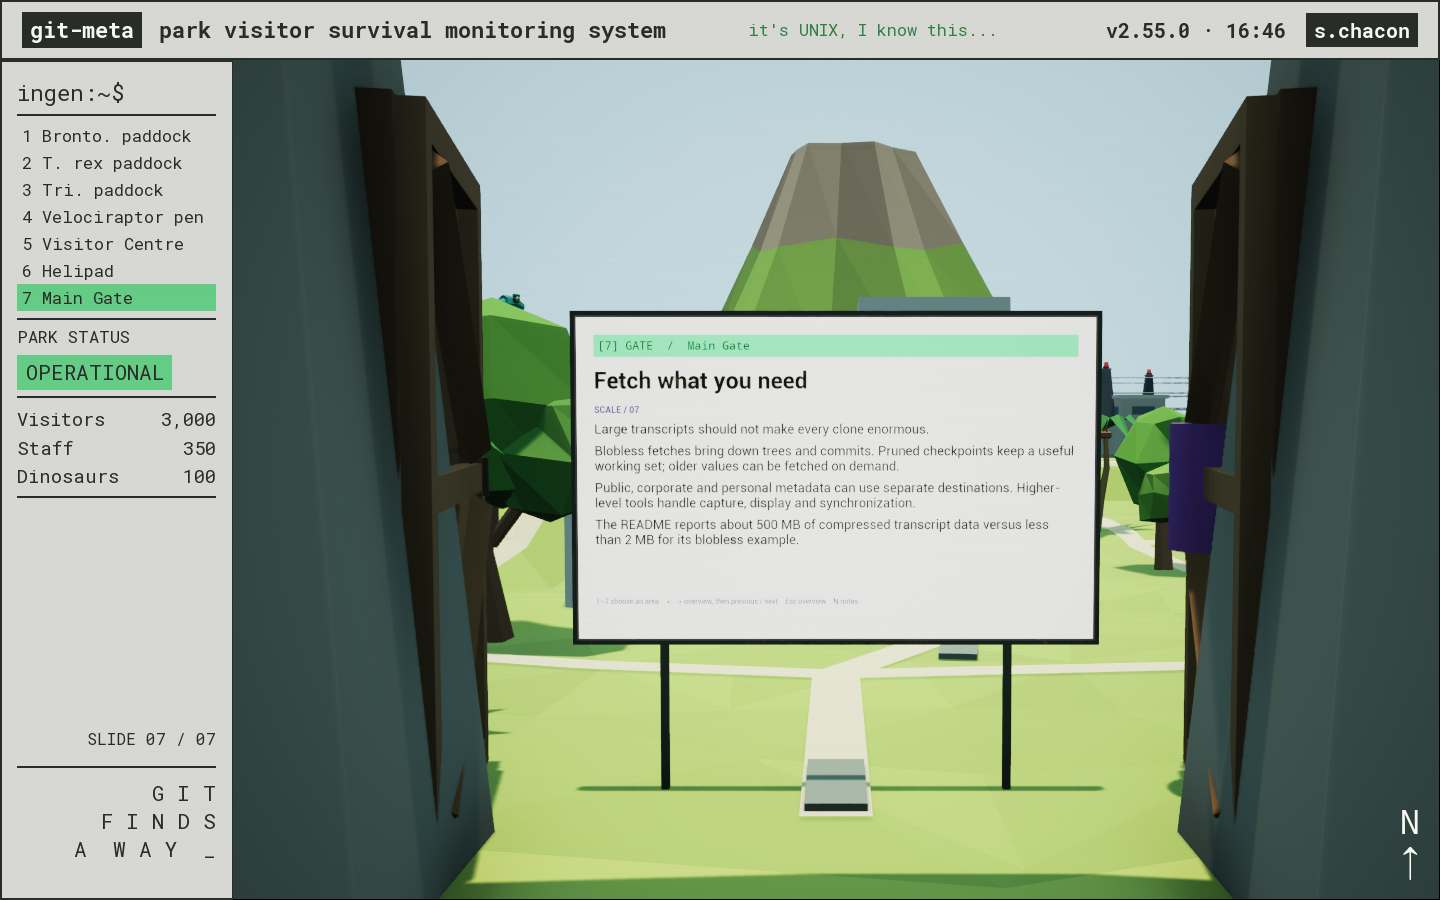
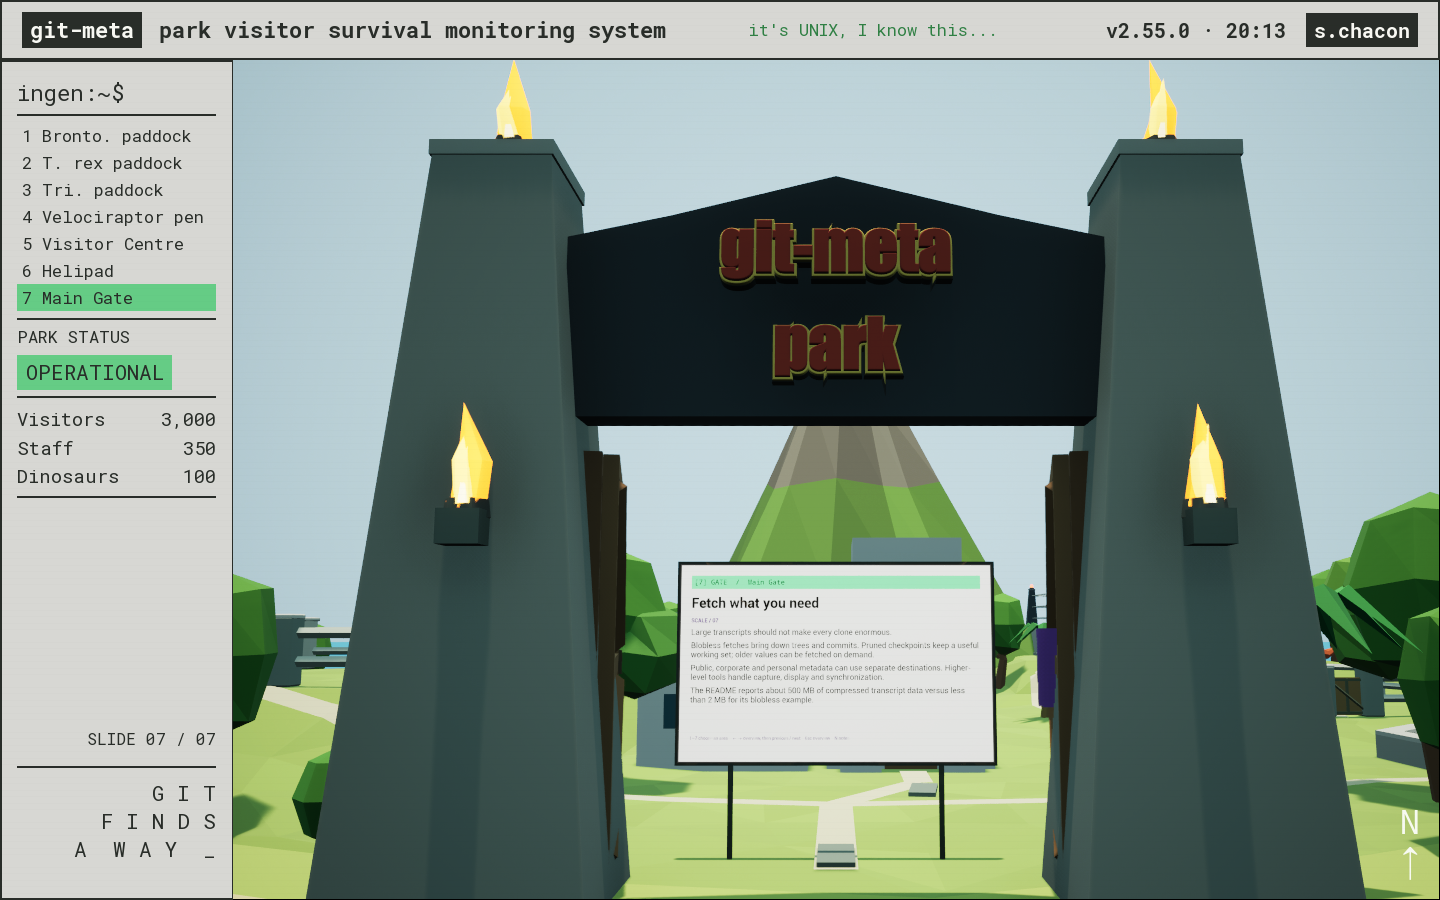
Pull back the gate camera to include the park lettering

diff --git a/unreal/Source/SlideEngine/ParkGateInteraction.cpp b/unreal/Source/SlideEngine/ParkGateInteraction.cpp
@@ -32,7 +32,12 @@ void ASlideGameMode::TestGate() {
    const FVector Portal=FMath::Lerp(Eye,P,(-10500-Eye.Y)/(P.Y-Eye.Y));
    Fits&=P.Y>-10500&&FMath::Abs(Portal.X)<1050&&Portal.Z>200&&Portal.Z<2288;
   }
-  if(!Check(Fits,TEXT("open doorway frames the sign behind the gate")))return;
+  // The pullback must also retain the raised lettering above the opening.
+  for(float X:{-1100.f,1100.f})for(float Z:{2480.f,3460.f}) {
+   FVector2D Screen;Fits&=PC->ProjectWorldLocationToScreen(FVector(X,-10750,Z),Screen);
+   Fits&=Screen.X>W*Player->Origin.X&&Screen.X<W&&Screen.Y>H*Player->Origin.Y&&Screen.Y<H;
+  }
+  if(!Check(Fits,TEXT("open doorway frames the slide and the park lettering stays visible")))return;
   FScreenshotRequest::RequestScreenshot(FPaths::ProjectSavedDir()/TEXT("Screenshots/gate-open.png"),true,false);SmokeStep=3;Travel=0;
  } else if(SmokeStep==3&&Travel>.4f){HandleParkKey(EKeys::Escape);SmokeStep=4;}
  else if(SmokeStep==4&&MapPhase==EMapPhase::Overview&&Open==0) {

diff --git a/docs/verification.md b/docs/verification.md
@@ -131,3 +131,8 @@ checks pass at 1440×900; the updated login screenshots were visually reviewed.
 See the [starting desktop](screenshots/login-screen.png),
 [credential animation](screenshots/login-typing.png), and
 [Logout / Exit menu](screenshots/logout-menu.png).
+
+The main-gate camera pulls back 22 metres, aims higher, and widens its frame to
+show the raised park lettering above the doorway. `-GateTest` now verifies both
+the slide sight lines through the opening and the lettering's viewport bounds.
+The interaction and visual review pass at 1440×900.
